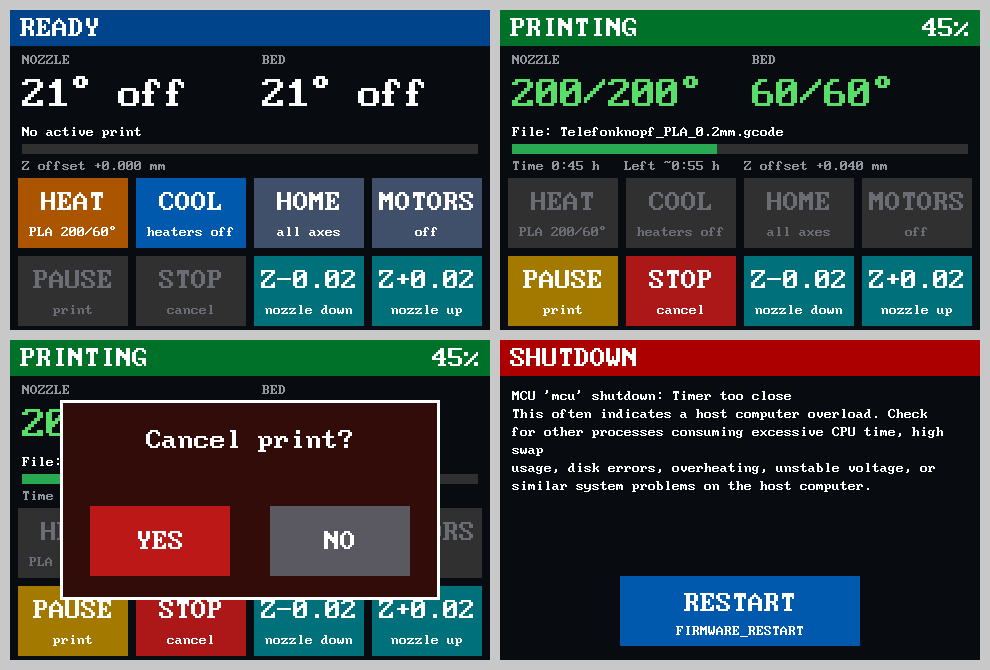
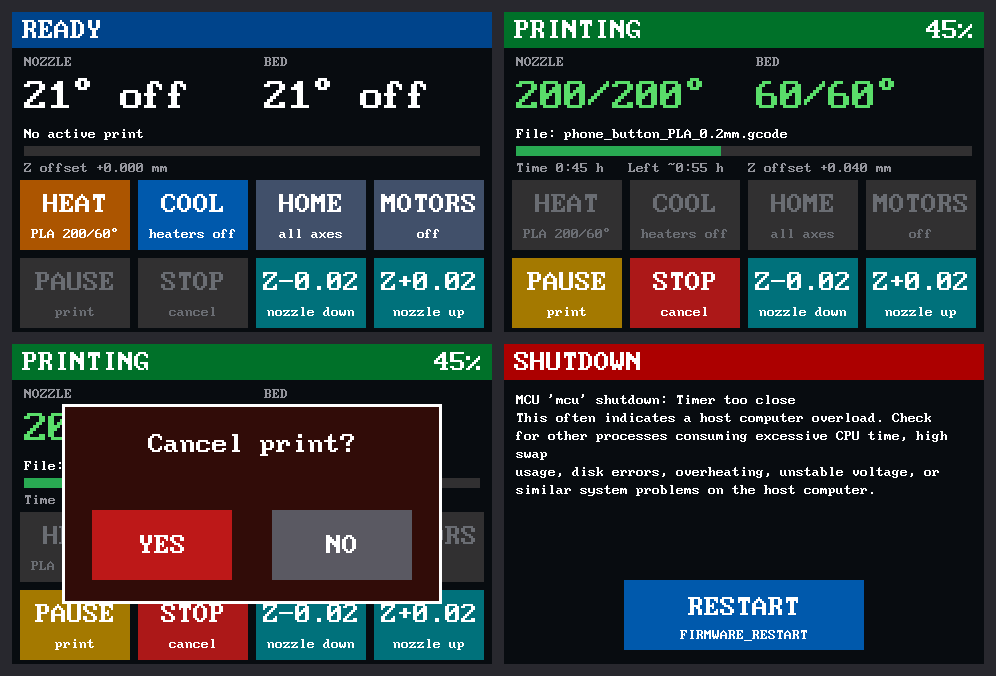
README: Describe the Tronxy stock TFT support with photos and screens
Claude-Session: https://claude.ai/code/session_01GHfoQuiB8vvwby3nXVWPGy

diff --git a/README.md b/README.md
@@ -1,9 +1,152 @@
-Welcome to the Klipper project!
+# Klipper with support for the Tronxy stock touch screen
 
-> **About this fork:** it adds support for the stock touch screen of
-> Tronxy printers with the TRONXY_F446 board (e.g. X5SA Pro), see
-> [docs/Tronxy_TFT.md](docs/Tronxy_TFT.md). Everything else is
-> upstream Klipper.
+This is a fork of [Klipper](https://github.com/Klipper3d/klipper) that
+brings the original 3.5" touch screen of Tronxy printers with the
+**TRONXY_F446 mainboard** (STM32F446, for example the **X5SA Pro**)
+back to life. With upstream Klipper the screen stays frozen on the
+Tronxy boot logo, because it sits on the FMC memory bus of the
+micro-controller and none of Klipper's display drivers can talk to it.
+
+Everything else is unchanged upstream Klipper (currently **v0.14.0**).
+All changes live in branch `tronxy-x5sa-tft`, the full guide is in
+[docs/Tronxy_TFT.md](docs/Tronxy_TFT.md).
+
+![Stock screen running Klipper on a Tronxy X5SA Pro](docs/img/tronxy-tft-photo.jpg)
+
+*Running on a Tronxy X5SA Pro with the German user interface.*
+
+## What the screen shows
+
+* Printer state in a colored bar (ready, printing, paused, complete,
+  cancelled, error) and the progress in percent
+* Nozzle and bed temperature, current and target, colored while heating
+* File name or `M117` message, progress bar, print time, estimated
+  time left and the current Z offset
+* Eight touch buttons:
+
+  | Button | Action |
+  |---|---|
+  | Heat | preheat for PLA (temperatures configurable) |
+  | Cool | all heaters off |
+  | Home | `G28` |
+  | Motors | motors off (`M84`) |
+  | Pause / Resume | `PAUSE` / `RESUME` |
+  | Stop | `CANCEL_PRINT`, after a yes/no confirmation |
+  | Z- / Z+ | Z offset -/+ 0.02 mm (babystepping during the first layer) |
+
+* Buttons that make no sense right now are greyed out, for example
+  home and cool down while printing
+* Errors from a button action are shown on the screen
+* After a shutdown: the reason and a big `FIRMWARE_RESTART` button
+* Touch calibration with `TRONXY_TOUCH_CALIBRATE`
+* English or German user interface (`language: en` / `de`)
+
+![English screens: ready, printing, cancel confirmation, shutdown](docs/img/tronxy-tft-screens.png)
+
+*English user interface: ready, printing, cancel confirmation, shutdown
+(rendered from the real drawing commands).*
+
+![German screens: ready, printing, paused, touch calibration](docs/img/tronxy-tft-screens-de.png)
+
+*German user interface: ready, printing, paused, touch calibration.*
+
+## How it works
+
+```mermaid
+flowchart LR
+    subgraph Pi["Host (Raspberry Pi)"]
+        K["Klipper"] --- M["tronxy_display.py<br/>draws the UI,<br/>runs the buttons"]
+    end
+    subgraph Board["TRONXY_F446 mainboard"]
+        F["Klipper MCU firmware<br/>+ tronxy_tft.c"]
+    end
+    M -- "fill / text commands<br/>(background priority)" --> F
+    F -- "touch events (raw)" --> M
+    F -- "FMC bus" --> P["ILI9488 panel<br/>480x320"]
+    T["XPT2046 touch"] -- "SPI" --> F
+```
+
+* The **MCU part** (`src/stm32/tronxy_tft.c`) initializes the panel,
+  shows "Waiting for Klipper..." until the host connects, provides
+  simple fill and text commands (built-in 8x16 font) and reports each
+  touch once with raw values.
+* The **host part** (`klippy/extras/tronxy_display.py`) draws the
+  screen, redraws only what changed and runs the G-code of the buttons.
+  All display traffic uses background priority on its own command
+  queue, so it never delays motion data. A full redraw is about 1 KB,
+  a temperature update about 50 bytes.
+
+## Quick start
+
+You need SSH access to the Pi and an SD card for the printer.
+
+1. **Host module.** Keep your normal Klipper installation and add the
+   module next to your config:
+   ```
+   cd ~/printer_data/config
+   wget https://raw.githubusercontent.com/urglas19-lab/klipper/tronxy-x5sa-tft/klippy/extras/tronxy_display.py
+   ln -sf ~/printer_data/config/tronxy_display.py ~/klipper/klippy/extras/tronxy_display.py
+   ```
+2. **MCU firmware.** If your host runs exactly Klipper v0.14.0, take
+   `fmw_tronxy.bin` from the
+   [latest release](https://github.com/urglas19-lab/klipper/releases/latest).
+   Otherwise build it yourself from this branch, see
+   [building the firmware](docs/Tronxy_TFT.md#building-and-flashing-the-mcu-firmware).
+   Put the file into a folder `update` on a FAT32 SD card, insert the
+   card, switch the printer off and on, wait, then remove the card.
+3. **Config.** Add to `printer.cfg`:
+   ```
+   [tronxy_display]
+   language: en
+   #preheat_extruder_temp: 200
+   #preheat_bed_temp: 60
+   ```
+4. **Restart the Klipper service**, for example with
+   `sudo systemctl restart klipper` or from the power menu of Mainsail
+   or Fluidd. A plain `RESTART` is not enough the first time, because
+   Klipper keeps already loaded Python modules.
+5. Optional: run `TRONXY_TOUCH_CALIBRATE`, tap the four crosses and
+   store the result with `SAVE_CONFIG`.
+
+If the firmware has no display support (for example after flashing
+plain Klipper), the module only logs a warning and Klipper starts
+normally.
+
+## After updating Klipper
+
+Klipper updates can change the protocol between host and MCU (v0.14.0
+did). After an update, build and flash the MCU firmware again from
+the matching version of this branch. Check the
+[releases](https://github.com/urglas19-lab/klipper/releases) for a
+pre-built file first.
+
+Klipper v0.14 lists the linked module as an untracked file and may
+show the host version with a `-dirty` suffix. That is cosmetic.
+
+## Status
+
+* Tested on one Tronxy X5SA Pro with the TRONXY_F446 board.
+* Other Tronxy printers with the same board and screen should work,
+  but have not been tested. Reports are welcome.
+* The panel is a TN type: viewed from above, mid-tone colors look
+  lighter and white text on colored buttons is harder to read.
+* Only the status page exists: no menus, no file selection.
+
+## Credits
+
+* Panel access is based on `hbtft.c` from the
+  [Hellbot Magna 2 300 Klipper fork](https://github.com/adrianeb2015/klipper.on.hellbot.magna.2.300)
+  by adrianeb2015 (GPLv3).
+* Pins and FMC timing were taken from Marlin (`pins_TRONXY_F446.h`).
+* Font: VGA 8x14 font shipped with Klipper (Joseph Gil, public domain).
+
+License: GPLv3, like Klipper.
+
+---
+
+# Original Klipper README
+
+Welcome to the Klipper project!
 
 [![Klipper](docs/img/klipper-logo-small.png)](https://www.klipper3d.org/)
 

diff --git a/docs/Tronxy_TFT.md b/docs/Tronxy_TFT.md
@@ -100,6 +100,10 @@ The host module has to match the firmware. Either:
 As usual with Klipper, build the MCU firmware from the same Klipper
 version that runs on the host.
 
+After installing or updating the module, restart the Klipper service
+(for example `sudo systemctl restart klipper`). A plain `RESTART`
+keeps already loaded Python modules and would run the old code.
+
 If the MCU firmware does not contain the display commands (for example
 after flashing plain Klipper), the module only logs a warning and stays
 inactive, Klipper starts normally.
